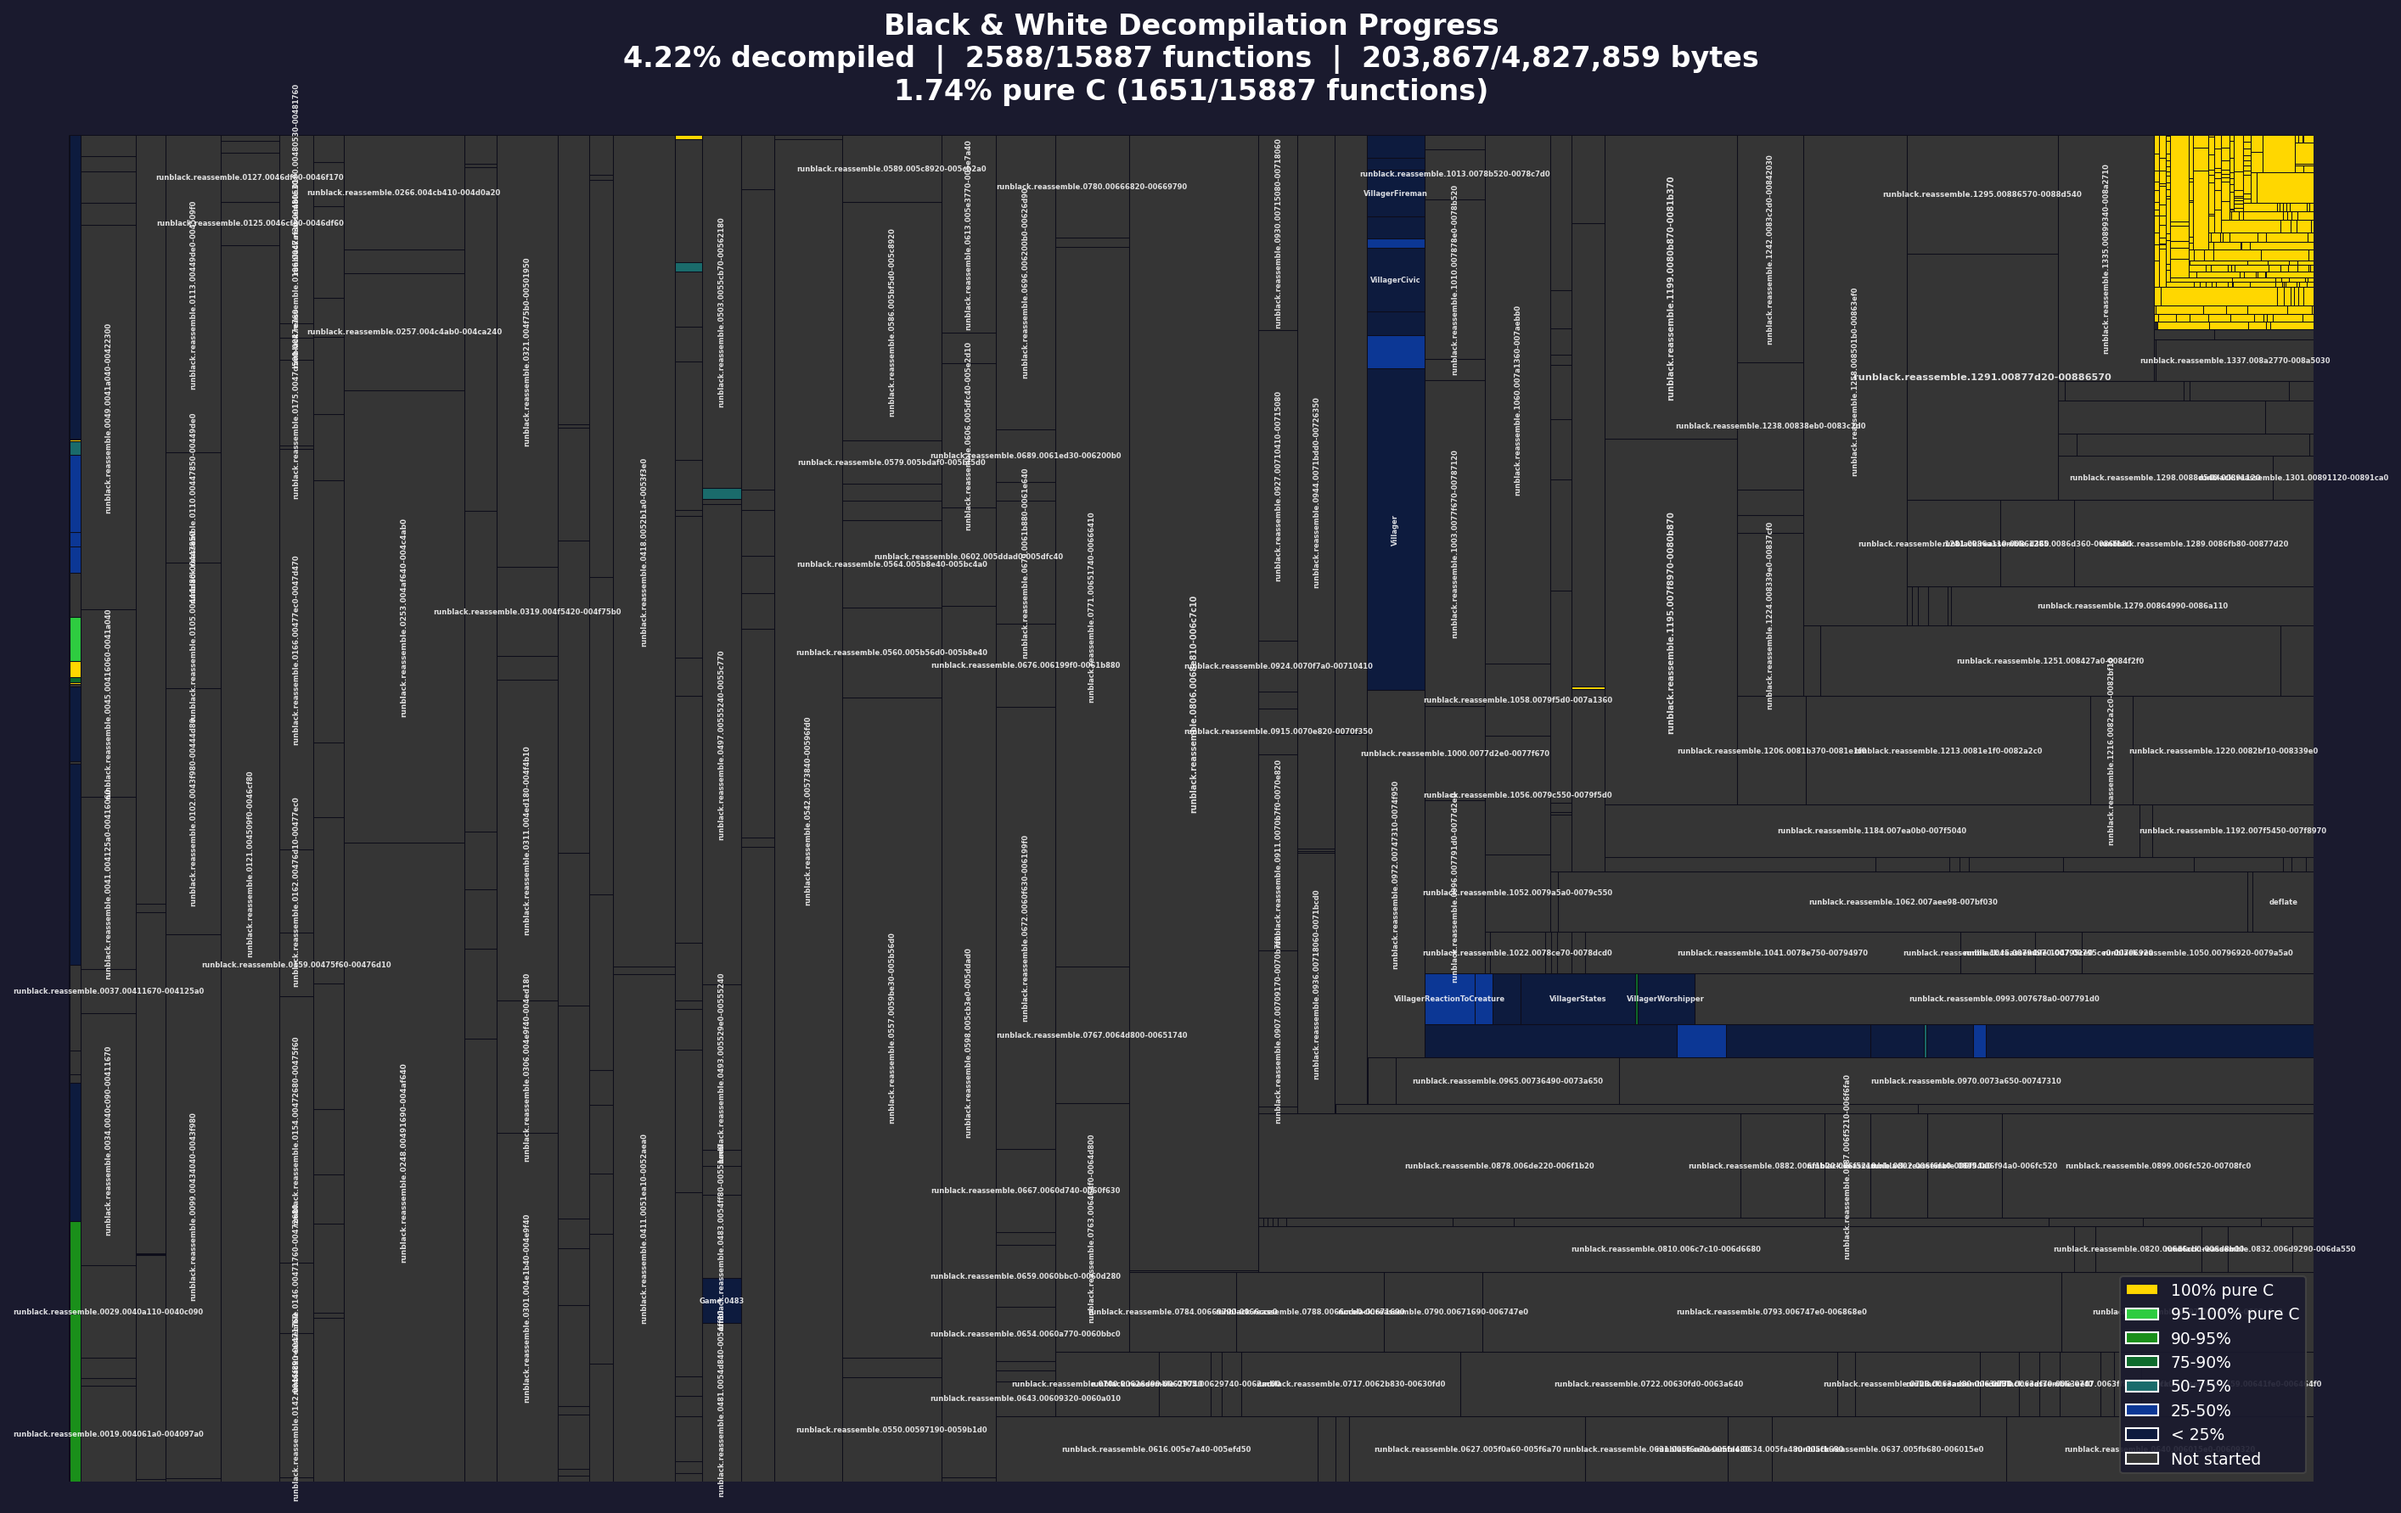
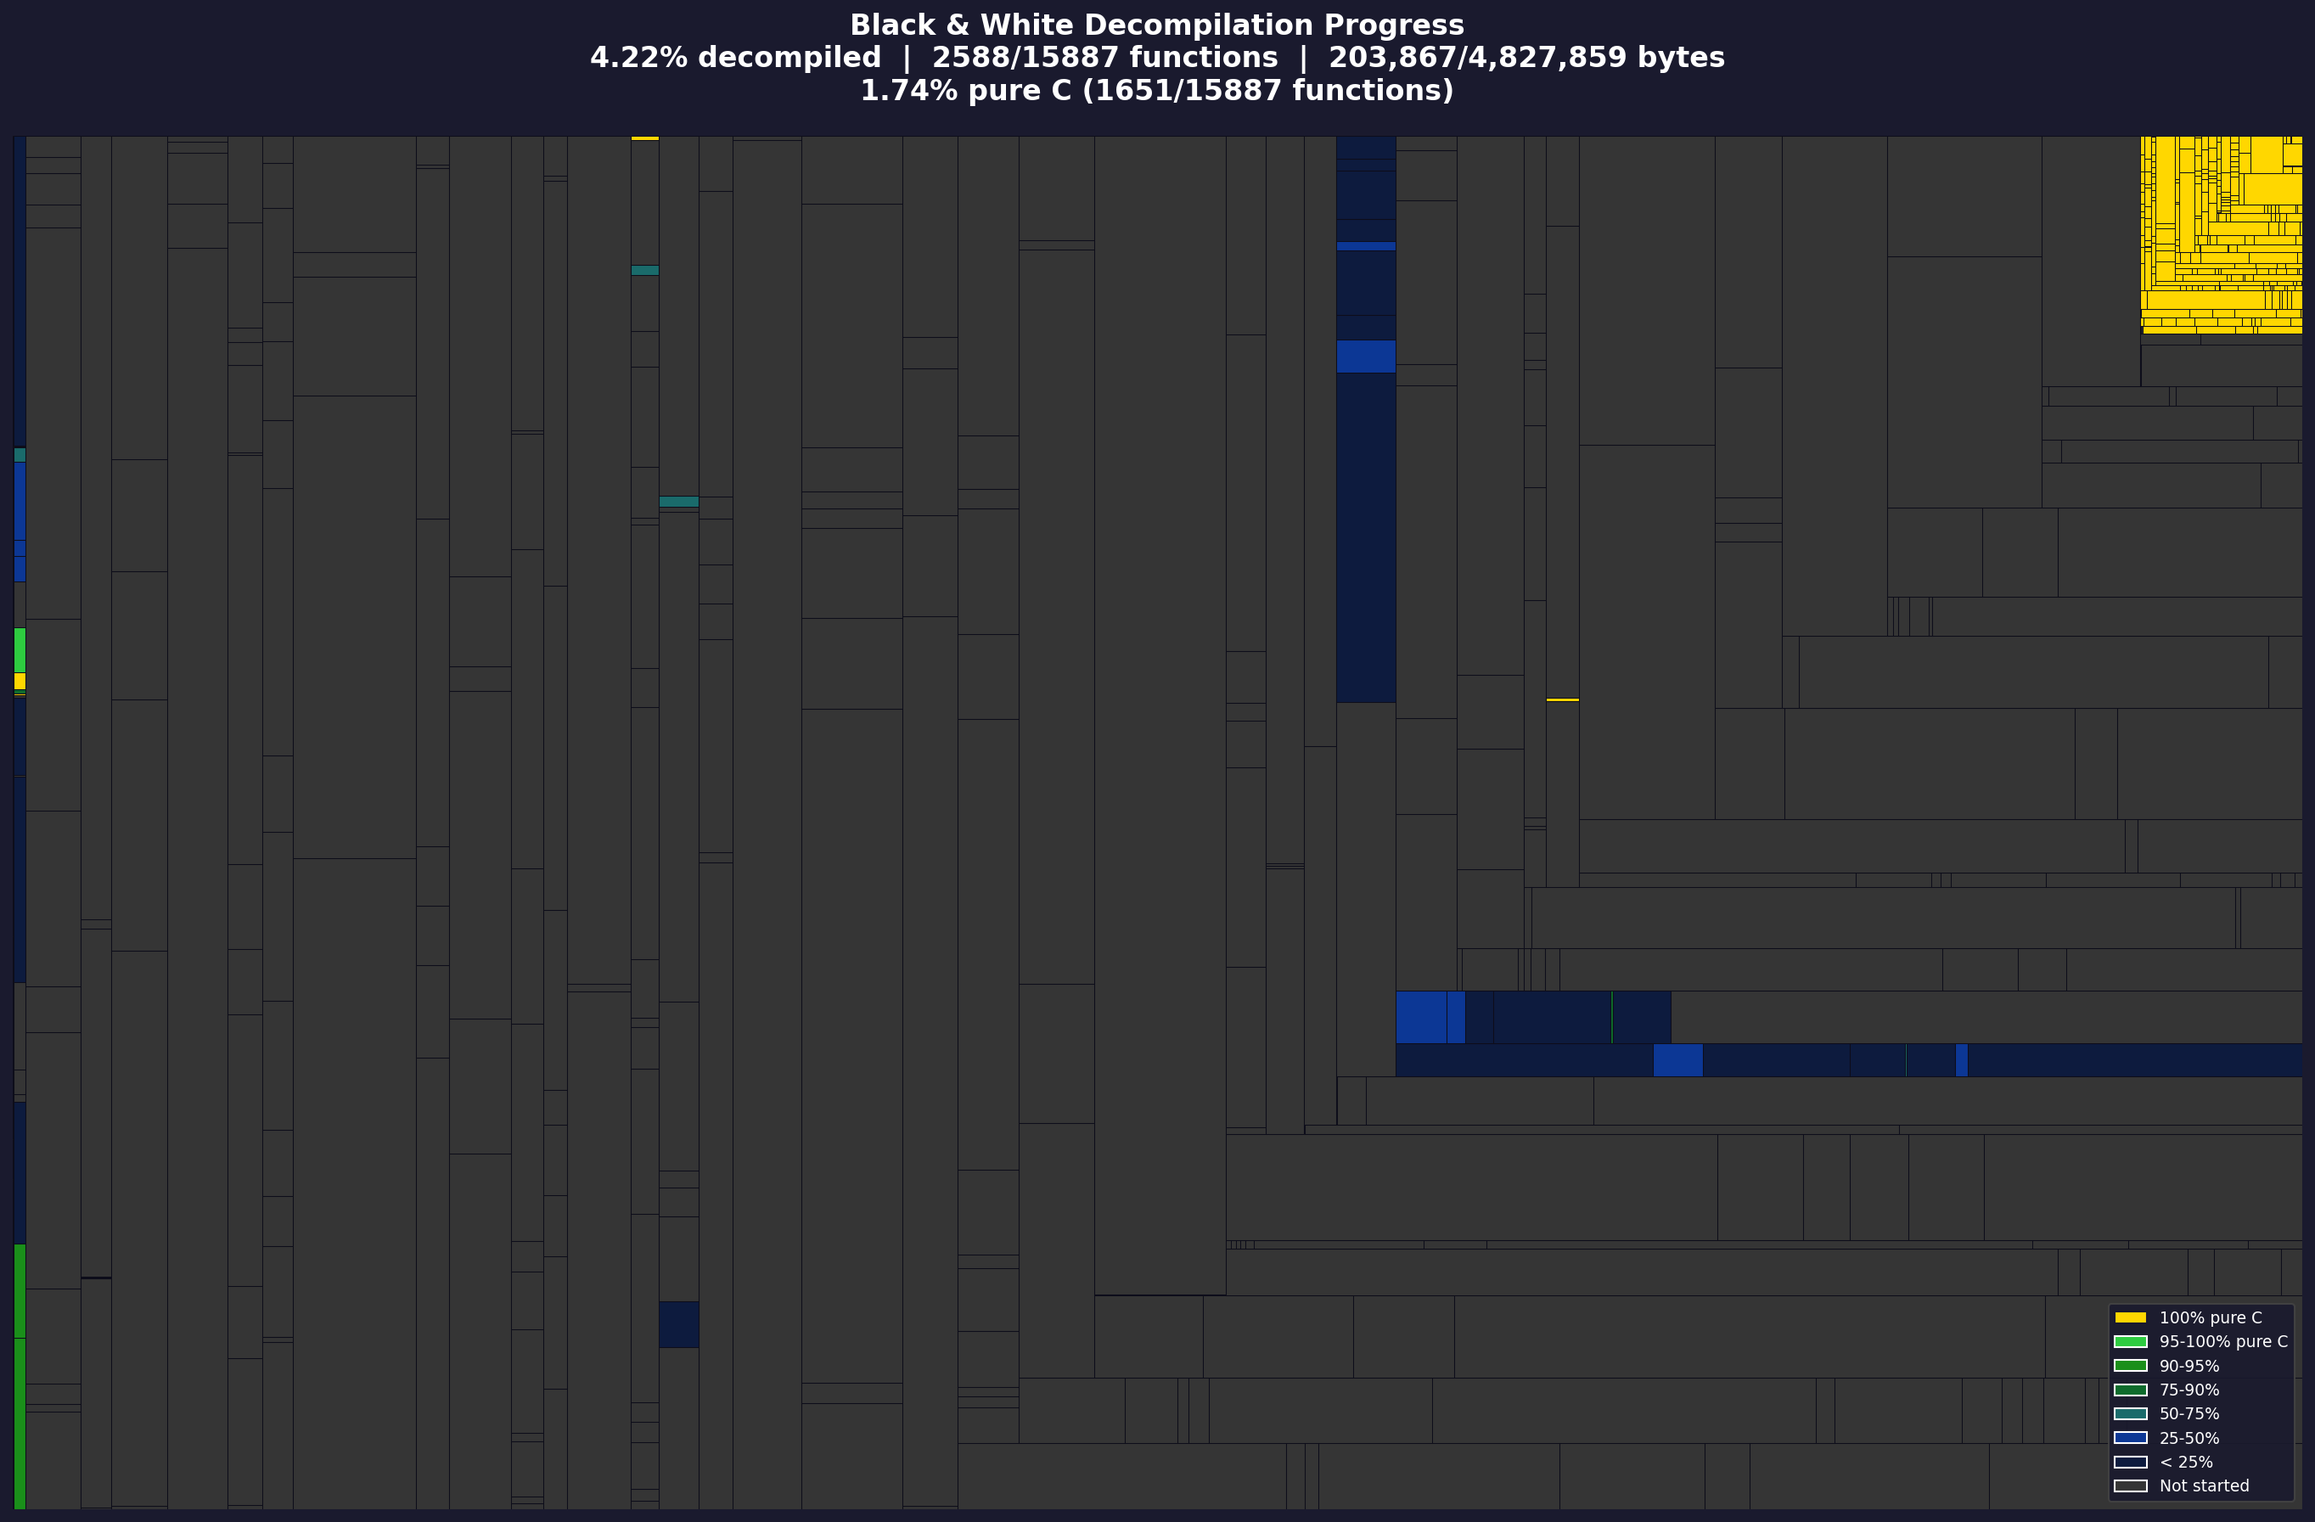
chore: remove block labels from progress image

diff --git a/scripts/decompilation/generate_progress_image.py b/scripts/decompilation/generate_progress_image.py
@@ -95,23 +95,6 @@ def main():
             edgecolor="#0d0d1a",
             linewidth=0.5,
         ))
-        # Only label large enough rectangles
-        if dx > 1.5 and dy > 1.5:
-            fontsize = min(8, max(4, min(dx, dy) * 0.8))
-            # Use dark text on gold/green, white on everything else
-            text_color = "#1a1a2e" if color in ("#FFD700", "#2ecc40") else "white"
-            # Rotate text vertically for tall narrow blocks
-            rotation = 90 if dy > dx * 2 else 0
-            ax.text(
-                x + dx / 2, y + dy / 2,
-                label,
-                ha="center", va="center",
-                color=text_color,
-                fontsize=fontsize,
-                fontweight="bold",
-                alpha=0.85,
-                rotation=rotation,
-            )
 
     ax.set_xlim(0, 100)
     ax.set_ylim(0, 60)
